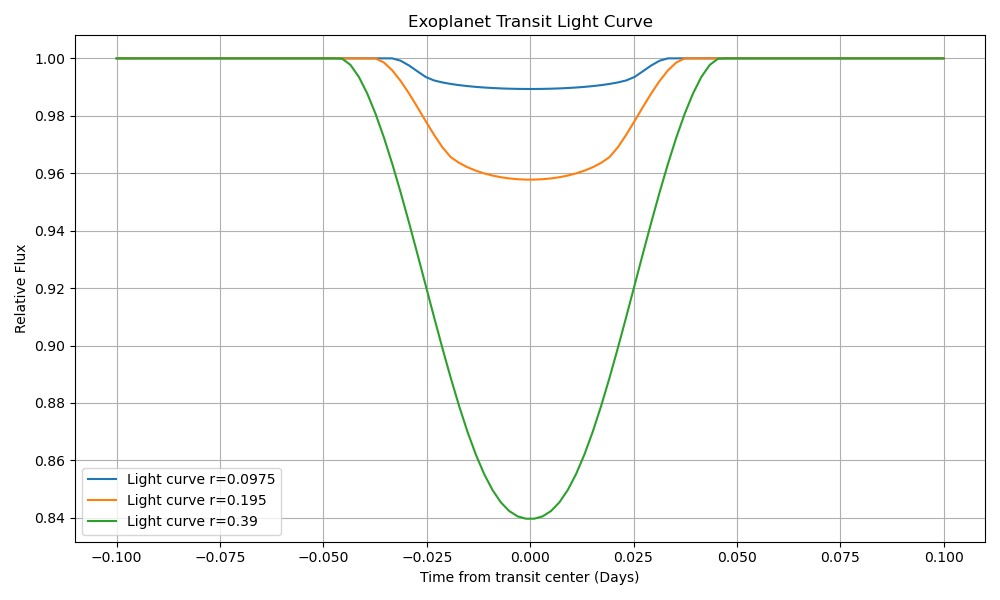
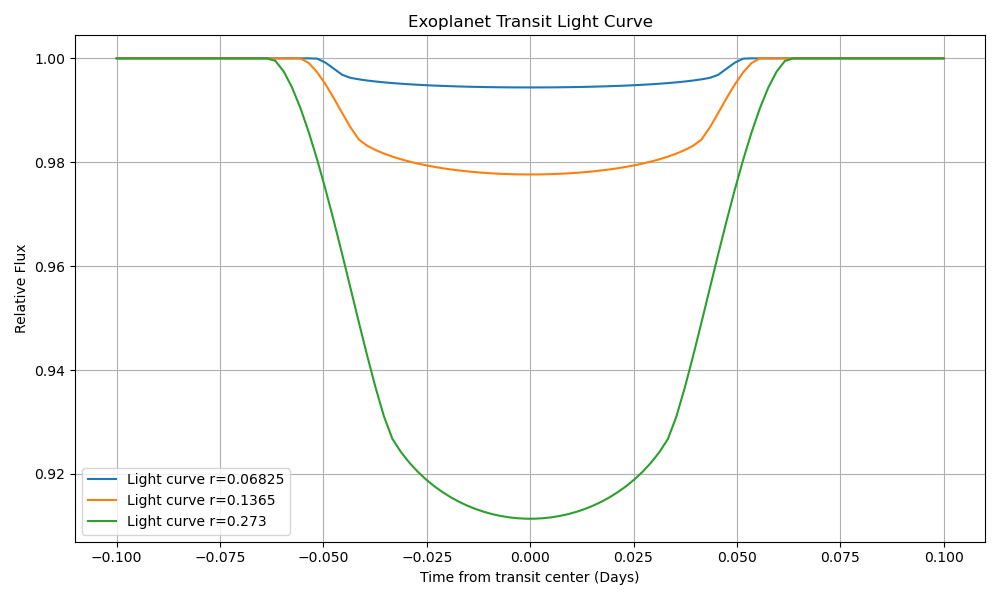
yaml e daneel

diff --git a/src/daneel/detection/transit.py b/src/daneel/detection/transit.py
@@ -2,33 +2,34 @@ import batman
 import numpy as np
 import matplotlib.pyplot as plt
 #HAT-P-18b hartman et al 2011
-params = batman.TransitParams()       #object to store transit parameters
-params.t0 = 0.                        #time of inferior conjunction
-params.per = 5.508                    #orbital period
-params.rp = 0.1365                    #planet radius (in units of stellar radii)
-params.a = 16.04                      #semi-major axis (in units of stellar radii)
-params.inc = 88.8                     #orbital inclination (in degrees)
-params.ecc = 0.084                    #eccentricity
-params.w = 120.0                      #longitude of periastron (in degrees)
-params.limb_dark = "quadratic"        #limb darkening model
-params.u = [0.506, 0.128]             #limb darkening coefficients [u1, u2, u3, u4]
+def calculate_transit(parameters):
+	params = batman.TransitParams()       #object to store transit parameters
+	params.t0 = parameters.get("t0")                        #time of inferior conjunction
+	params.per = parameters.get("p")                    #orbital period
+	params.rp = parameters.get("r")                    #planet radius (in units of stellar radii)
+	params.a = parameters.get("a")                      #semi-major axis (in units of stellar radii)
+	params.inc = parameters.get("i")                     #orbital inclination (in degrees)
+	params.ecc = parameters.get("e")                    #eccentricity
+	params.w = parameters.get("w")                      #longitude of periastron (in degrees)
+	params.limb_dark = parameters.get("l")        #limb darkening model
+	params.u = parameters.get("u")             #limb darkening coefficients [u1, u2, u3, u4]
 
-t = np.linspace(-0.10,0.10,100)              #times at which to calculate light curve
-m = batman.TransitModel(params, t)
+	t = np.linspace(-0.10,0.10,100)              #times at which to calculate light curve
+	m = batman.TransitModel(params, t)
 
-flux = m.light_curve(params)
-radii = np.array([0.06825, 0.1365, 0.273])
-fig = plt.figure(figsize=(10, 6))
-for r in radii:
-        params.rp = r                           #updates planet radius
-        new_flux = m.light_curve(params)        #recalculates light curve
-        plt.plot(t, new_flux, label=f'Light curve r='+str(r))
+	flux = m.light_curve(params)
+	radii = np.array([params.rp/2, params.rp, params.rp*2])
+	fig = plt.figure(figsize=(10, 6))
+	for r in radii:
+	        params.rp = r                           #updates planet radius
+	        new_flux = m.light_curve(params)        #recalculates light curve
+	        plt.plot(t, new_flux, label=f'Light curve r='+str(r))
 
-plt.xlabel('Time from transit center (Days)')
-plt.ylabel('Relative Flux')
-plt.title('Exoplanet Transit Light Curve')
-plt.grid(True)
-plt.legend()
-plt.tight_layout()
-plt.show()
+	plt.xlabel('Time from transit center (Days)')
+	plt.ylabel('Relative Flux')
+	plt.title('Exoplanet Transit Light Curve')
+	plt.grid(True)
+	plt.legend()
+	plt.tight_layout()
+	plt.show()
 fig.savefig('assignment2_taskBC.png')

diff --git a/src/daneel/__main__.py b/src/daneel/__main__.py
@@ -35,6 +35,16 @@ def main():
         action="store_true",
     )
 
+    parser.add_argument(
+        "-t",
+        "--transit",
+        dest="transit",
+        type=bool,
+        required=False,
+        help="If present compute the light curve",
+	action="store_true"
+    )
+
     args = parser.parse_args()
 
     """Launch Daneel"""
@@ -42,6 +52,8 @@ def main():
     print(f"Daneel starts at {start}")
     param = Parameters(args.input_file)
     input_pars = param.params
+    if args.transit:
+	calculate_transit(param)
 
     if args.detect == "svm":
         DetectionWithSVM(param)
